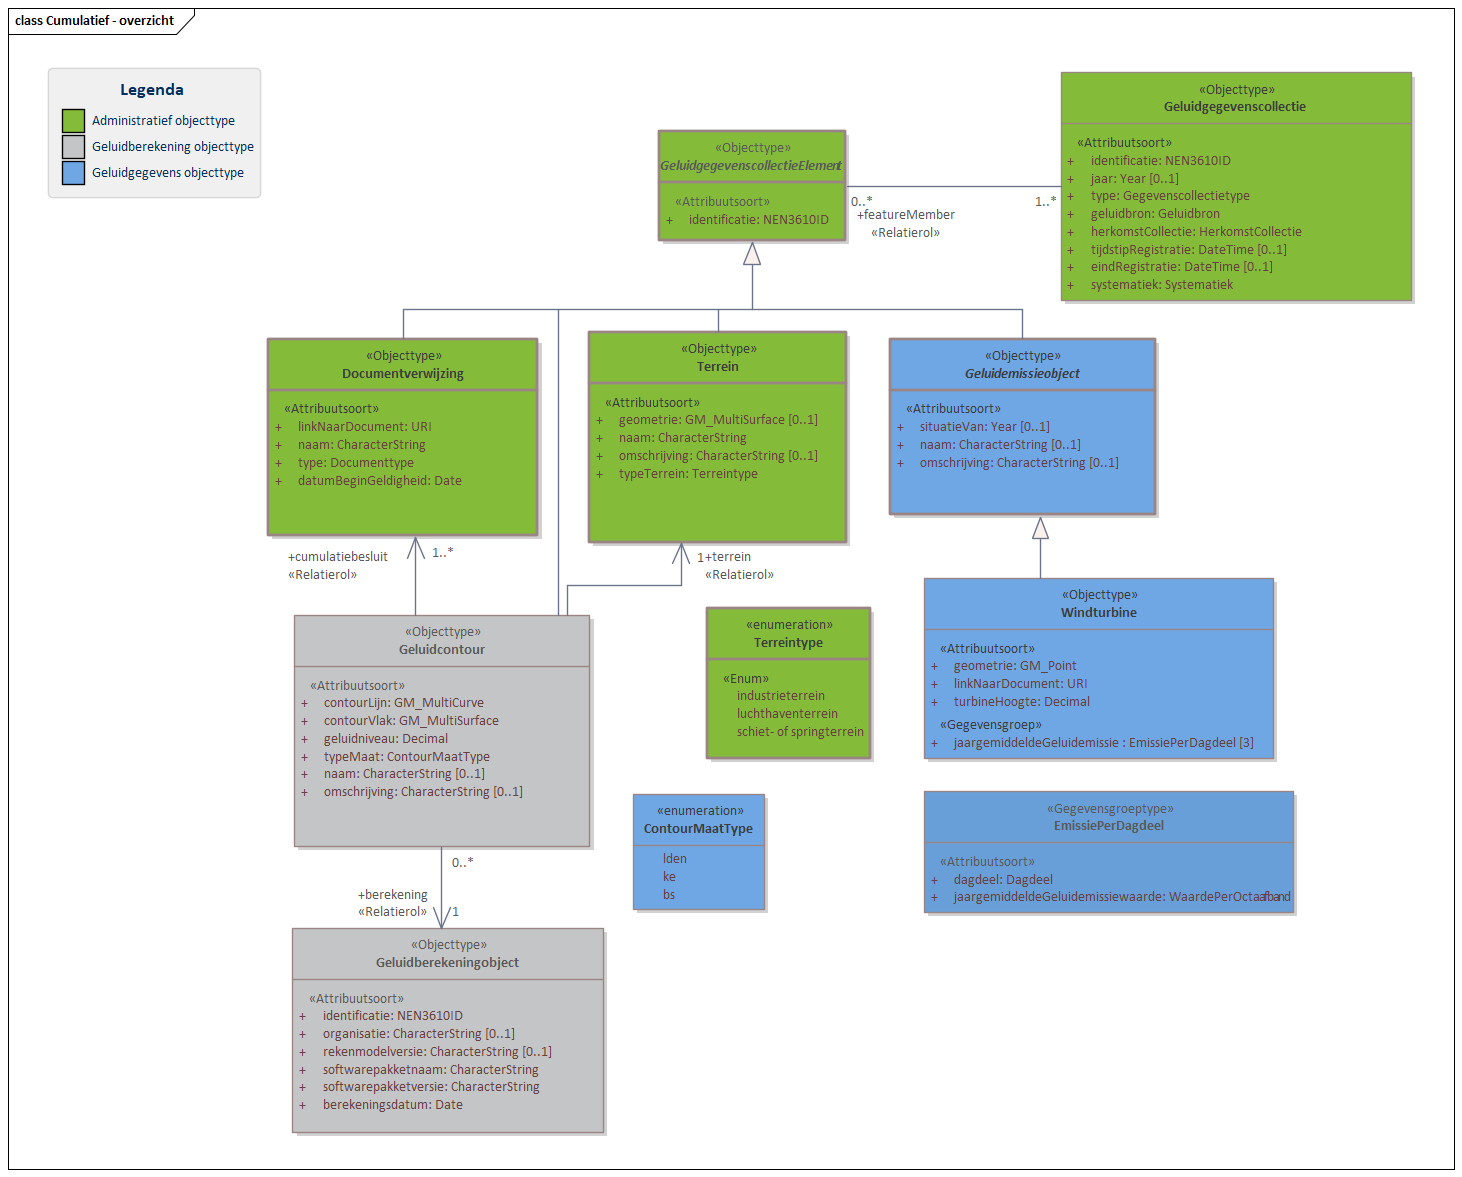
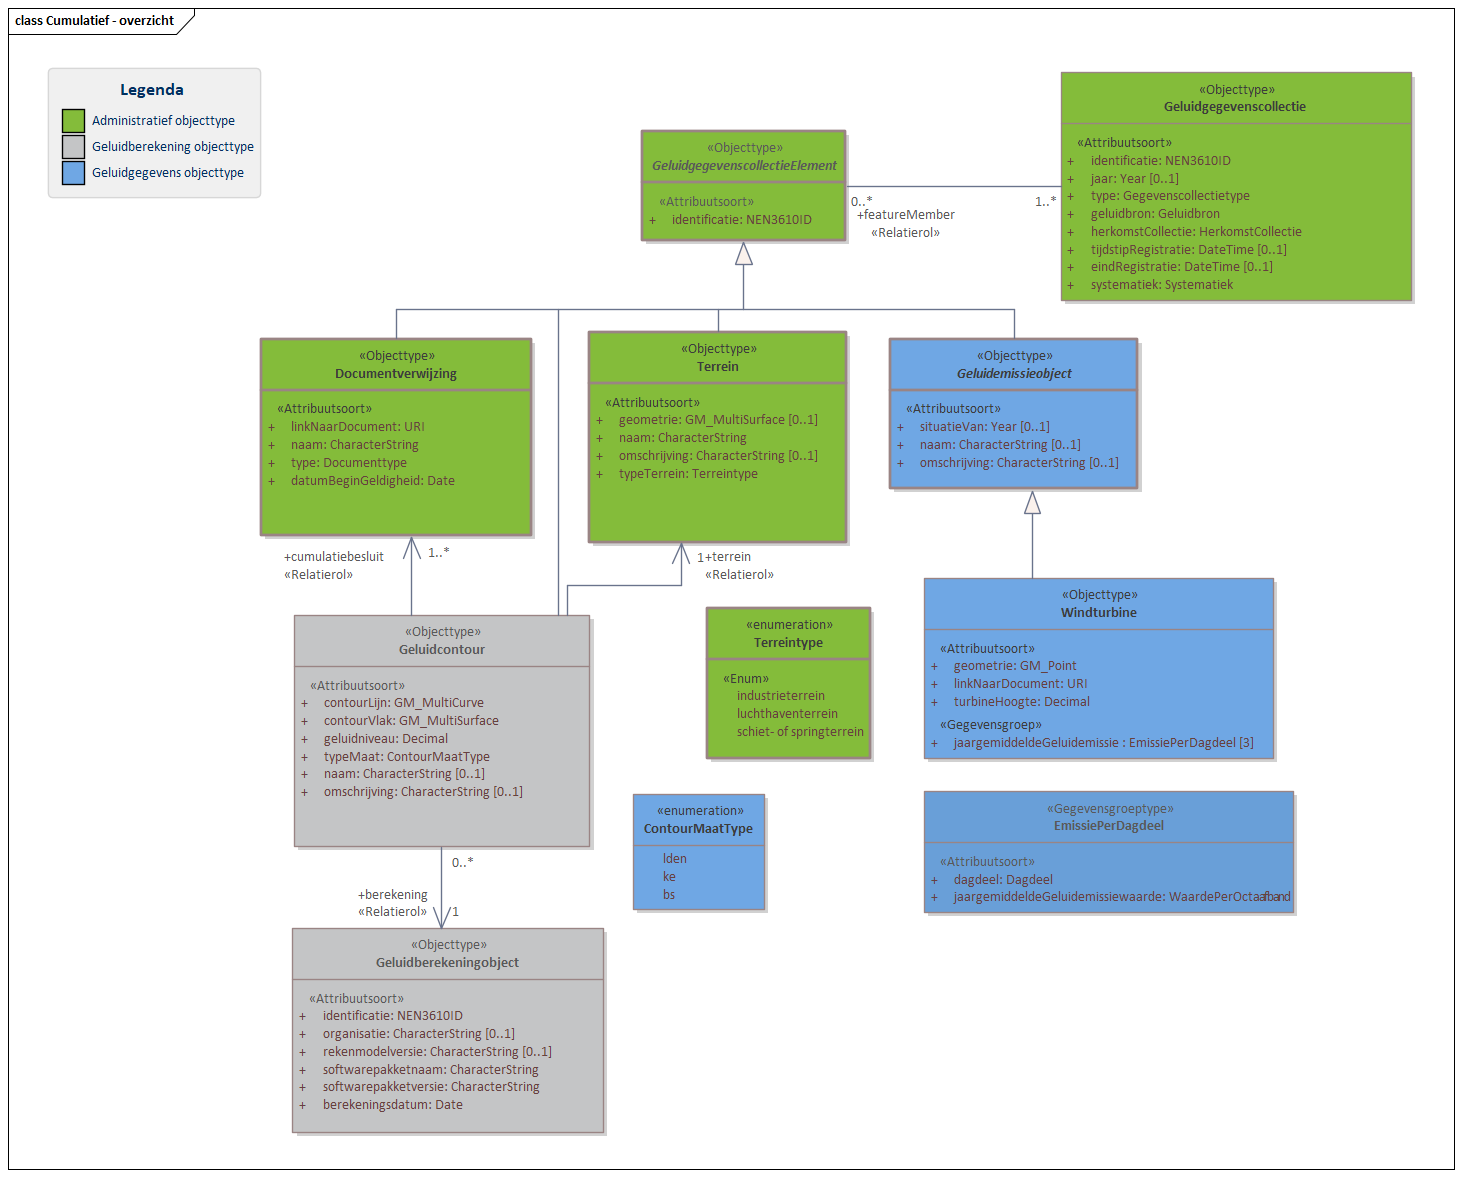
MIMLM-InformatiemodelGeluid-1.1-0-20210521-20211102-131441

diff --git a/data/IMG-cat.respec.html b/data/IMG-cat.respec.html
@@ -1,7 +1,7 @@
 
 <!DOCTYPE HTML><section id="cat" class="normative">
    <h2>Gegevensdefinitie</h2>
-   <!--MIMLM-InformatiemodelGeluid-1.1-0-20210521-20211102-114241 imvertor 1.65.2-->
+   <!--MIMLM-InformatiemodelGeluid-1.1-0-20210521-20211102-131441 imvertor 1.65.2-->
    <section id="EAID_66AE8FA2_74FC_4d4d_B2B2_249C8D6A651F">
       <h3>   Basismodel - overzicht</h3>
       <div class="imageinfo overview"><img src="data/Images/EAID_66AE8FA2_74FC_4d4d_B2B2_249C8D6A651F.png" usemap="#imagemap-EAID_66AE8FA2_74FC_4d4d_B2B2_249C8D6A651F" alt="Diagram &#xA;                        Het Basismodel vormt de samenhang tussen alle domeinen van het IMGeluid. Alle objecttypen en relaties uit het IMGeluid komen samen in een Geluidgegevenscollectie.&#xA;                        Binnen het IMGeluid worden geluidbrongegevens die gebruikt worden voor GPP en BGE berekeningen, gemodelleerd als een Geluidemissie of Geluidoverdrachtobject. De resultaten van GPP of BGE berekeningen worden opgeslagen in een Geluidgegevenscollectie. De onderliggende juridische vastleggingen, vaststellingen, of monitoringsverslagen van deze omgevings- of monitoringswaarden, worden ook opgeslagen in dezelfde Geluidgegevenscollectie.&#xA;                        Per geluidbron per toepassing kan er een Geluidgegevenscollectie bestaan. Deze kan geassocieerd worden met maximaal 1 Geluidaandachtsgebied. Wanneer geluidgegevens met betrekking tot cumulatieberekeningen worden aangeleverd, bevat een Geluidgegevenscollectie geen Geluidaandachtsgebied.&#xA;                        &#xA;                        # test&#xA;                        &#xA;                        Klik met de rechtermuisknop op het diagram om de afbeelding op volledige grote in een nieuw tabblad te openen.&#xA;                     "><map name="imagemap-EAID_66AE8FA2_74FC_4d4d_B2B2_249C8D6A651F"><area shape="rect" alt="GeluidgegevenscollectieElement" coords="411,164,648,268" href="#graph_EAID_924BD078_D715_461a_B7E9_D7176A7406E0"><area shape="rect" alt="Monitoringresultaat" coords="664,812,943,963" href="#graph_EAID_BA00B77B_D408_4590_8185_CE59E5838F1E"><area shape="rect" alt="Basisgeluidemissieobject" coords="217,772,522,909" href="#graph_EAID_9AD15457_4880_42e5_8C72_4E5EFAC91B15"><area shape="rect" alt="Geluidproductieplafondobject" coords="1160,508,1446,772" href="#graph_EAID_237408F8_8CE9_4828_B8FB_1A5B8C917622"><area shape="rect" alt="Geluidberekeningobject" coords="678,1071,992,1271" href="#graph_EAID_97ED59FE_9FCA_49a6_8F07_214E48000B76"><area shape="rect" alt="Documentverwijzing" coords="711,391,968,566" href="#graph_EAID_7E137496_1028_4af5_9367_569358A2167B"><area shape="rect" alt="Geluidaandachtsgebied" coords="1231,284,1477,424" href="#graph_EAID_B06128AC_518C_4e26_88E5_14ED5A050A19"><area shape="rect" alt="Geluidgegevenscollectie" coords="812,68,1155,297" href="#graph_EAID_313C5AF9_49B8_4860_9E65_DE7C70084864"><area shape="rect" alt="Geluidemissieobject" coords="171,365,437,525" href="#graph_EAID_361C96BA_A638_494e_80BA_590ED481A81B"><area shape="rect" alt="Geluidoverdrachtobject" coords="197,549,476,686" href="#graph_EAID_2FEA326B_B7E7_48a4_B50F_00CCB2694677"></map><p><b>Basismodel - overzicht</b>
@@ -32,7 +32,7 @@
    </section>
    <section id="EAID_8A238AA8_87EB_46bf_B38F_4D4C086EDF94">
       <h3>   GPP Algemeen - overzicht</h3>
-      <div class="imageinfo overview"><img src="data/Images/EAID_8A238AA8_87EB_46bf_B38F_4D4C086EDF94.png" usemap="#imagemap-EAID_8A238AA8_87EB_46bf_B38F_4D4C086EDF94" alt="Diagram &#xA;                        GPP Algemeen bevat objecttypen en relaties met in ieder geval betrekking tot geluidproductieplafonds, onderliggende geluidbrongegevens en juridische vaststellingen. GPP algemeen omvat drie subdomeinen: GPP Industie, GPP Wegen en GPP Spoor. Een aantal objecten zijn al eerder verschenen in het Basismodel, maar worden hier verder gespecificeerd. Zo worden binnen dit domein een aantal  Geluidoverdrachtobjecten gespecificeerd. Een voorbeeld hiervan is het Geluidschermdeel dat in alle GPP domeinen gebruikt wordt. &#xA;&#xA;Klik met de rechtermuisknop op het diagram om de afbeelding op volledige grote in een nieuw tabblad te openen&#xA;                     "><map name="imagemap-EAID_8A238AA8_87EB_46bf_B38F_4D4C086EDF94"><area shape="rect" alt="GeluidgegevenscollectieElement" coords="530,68,718,178" href="#graph_EAID_924BD078_D715_461a_B7E9_D7176A7406E0"><area shape="rect" alt="Geluidgegevenscollectie" coords="1246,89,1656,335" href="#graph_EAID_313C5AF9_49B8_4860_9E65_DE7C70084864"><area shape="rect" alt="Geluidemissieobject" coords="480,364,708,506" href="#graph_EAID_361C96BA_A638_494e_80BA_590ED481A81B"><area shape="rect" alt="Geluidoverdrachtobject" coords="153,361,447,510" href="#graph_EAID_2FEA326B_B7E7_48a4_B50F_00CCB2694677"><area shape="rect" alt="Bodemvlak" coords="372,683,578,819" href="#graph_EAID_902B9218_E1B1_4512_B52A_F8DADD1DB990"><area shape="rect" alt="Geluidschermdeel" coords="63,668,331,897" href="#graph_EAID_BC342A75_1053_4086_9B42_321F22E3FA82"><area shape="rect" alt="Hoogtelijn" coords="588,683,769,805" href="#graph_EAID_CE3003A0_5F16_4630_B2A6_519B33439135"><area shape="rect" alt="Geluidberekeningobject" coords="827,793,1143,1026" href="#graph_EAID_97ED59FE_9FCA_49a6_8F07_214E48000B76"><area shape="rect" alt="Documentverwijzing" coords="1117,429,1317,599" href="#graph_EAID_7E137496_1028_4af5_9367_569358A2167B"><area shape="rect" alt="Geluidaandachtsgebied" coords="1371,793,1639,943" href="#graph_EAID_B06128AC_518C_4e26_88E5_14ED5A050A19"><area shape="rect" alt="Geluidproductieplafondobject" coords="737,340,1022,627" href="#graph_EAID_237408F8_8CE9_4828_B8FB_1A5B8C917622"></map><p><b>GPP Algemeen - overzicht</b>
+      <div class="imageinfo overview"><img src="data/Images/EAID_8A238AA8_87EB_46bf_B38F_4D4C086EDF94.png" usemap="#imagemap-EAID_8A238AA8_87EB_46bf_B38F_4D4C086EDF94" alt="Diagram &#xA;                        GPP Algemeen bevat objecttypen en relaties met in ieder geval betrekking tot geluidproductieplafonds, onderliggende geluidbrongegevens en juridische vaststellingen. GPP algemeen omvat drie subdomeinen: GPP Industie, GPP Wegen en GPP Spoor. Een aantal objecten zijn al eerder verschenen in het Basismodel, maar worden hier verder gespecificeerd. Zo worden binnen dit domein een aantal  Geluidoverdrachtobjecten gespecificeerd. Een voorbeeld hiervan is het Geluidschermdeel dat in alle GPP domeinen gebruikt wordt. &#xA;&#xA;Klik met de rechtermuisknop op het diagram om de afbeelding op volledige grote in een nieuw tabblad te openen&#xA;                     "><map name="imagemap-EAID_8A238AA8_87EB_46bf_B38F_4D4C086EDF94"><area shape="rect" alt="GeluidgegevenscollectieElement" coords="530,68,718,178" href="#graph_EAID_924BD078_D715_461a_B7E9_D7176A7406E0"><area shape="rect" alt="Geluidgegevenscollectie" coords="1246,115,1604,343" href="#graph_EAID_313C5AF9_49B8_4860_9E65_DE7C70084864"><area shape="rect" alt="Geluidemissieobject" coords="480,364,708,506" href="#graph_EAID_361C96BA_A638_494e_80BA_590ED481A81B"><area shape="rect" alt="Geluidoverdrachtobject" coords="153,361,447,510" href="#graph_EAID_2FEA326B_B7E7_48a4_B50F_00CCB2694677"><area shape="rect" alt="Bodemvlak" coords="372,683,578,819" href="#graph_EAID_902B9218_E1B1_4512_B52A_F8DADD1DB990"><area shape="rect" alt="Geluidschermdeel" coords="63,668,331,897" href="#graph_EAID_BC342A75_1053_4086_9B42_321F22E3FA82"><area shape="rect" alt="Hoogtelijn" coords="588,683,769,805" href="#graph_EAID_CE3003A0_5F16_4630_B2A6_519B33439135"><area shape="rect" alt="Geluidberekeningobject" coords="827,793,1143,1026" href="#graph_EAID_97ED59FE_9FCA_49a6_8F07_214E48000B76"><area shape="rect" alt="Documentverwijzing" coords="1117,429,1317,599" href="#graph_EAID_7E137496_1028_4af5_9367_569358A2167B"><area shape="rect" alt="Geluidaandachtsgebied" coords="1371,793,1639,943" href="#graph_EAID_B06128AC_518C_4e26_88E5_14ED5A050A19"><area shape="rect" alt="Geluidproductieplafondobject" coords="737,340,1022,627" href="#graph_EAID_237408F8_8CE9_4828_B8FB_1A5B8C917622"></map><p><b>GPP Algemeen - overzicht</b>
             
             <p>GPP Algemeen bevat objecttypen en relaties met in ieder geval betrekking tot geluidproductieplafonds,
                onderliggende geluidbrongegevens en juridische vaststellingen. GPP algemeen omvat
@@ -143,7 +143,7 @@
    </section>
    <section id="EAID_0C92279C_28A6_4454_84DC_4ACAECE11937">
       <h3>   Cumulatief - overzicht</h3>
-      <div class="imageinfo overview"><img src="data/Images/EAID_0C92279C_28A6_4454_84DC_4ACAECE11937.png" usemap="#imagemap-EAID_0C92279C_28A6_4454_84DC_4ACAECE11937" alt="Diagram &#xA;                        In domeinmodel Cumulatief staan objecttypen en relaties ten behoeve van het uitvoeren van cumulatie van geluid. Voor luchthavens en schiet- of springterreinen betreft het geluidcontouren; voor windturbines betreft het geluidbrongegevens. &#xA;Een Geluidgegevenscollectie van cumulatieve gegevens bevat geen geluidaandachtsgebied. Informatie over de berekening van geluidcontouren wordt opgenomen in het geluidregister. &#xA;&#xA;Klik met de rechtermuisknop op het diagram om de afbeelding op volledige grote in een nieuw tabblad te openen.&#xA;                     "><map name="imagemap-EAID_0C92279C_28A6_4454_84DC_4ACAECE11937"><area shape="rect" alt="EmissiePerDagdeel" coords="924,791,1294,913" href="#graph_EAID_9A426255_E676_4de1_B729_5977DDDAFA5D"><area shape="rect" alt="GeluidgegevenscollectieElement" coords="659,131,846,241" href="#graph_EAID_924BD078_D715_461a_B7E9_D7176A7406E0"><area shape="rect" alt="Terreintype" coords="707,608,871,759" href="#graph_EAID_77370E17_8492_4c58_9D1A_B6E09697F834"><area shape="rect" alt="Terrein" coords="589,332,847,543" href="#graph_EAID_3CF82A2D_EBD2_45f5_BDBF_6B65612322CD"><area shape="rect" alt="Geluidemissieobject" coords="890,339,1156,515" href="#graph_EAID_361C96BA_A638_494e_80BA_590ED481A81B"><area shape="rect" alt="Documentverwijzing" coords="268,339,538,536" href="#graph_EAID_7E137496_1028_4af5_9367_569358A2167B"><area shape="rect" alt="Geluidgegevenscollectie" coords="1061,72,1412,301" href="#graph_EAID_313C5AF9_49B8_4860_9E65_DE7C70084864"><area shape="rect" alt="Windturbine" coords="924,578,1274,759" href="#graph_EAID_DBD69202_F9F6_4121_99E0_A194D53BB62F"><area shape="rect" alt="ContourMaatType" coords="633,794,765,910" href="#graph_EAID_F0EBEC48_6162_4681_86C7_ECC93055F37A"><area shape="rect" alt="Geluidcontour" coords="294,615,590,847" href="#graph_EAID_593AE084_D3EF_403b_9863_496FC269DC87"><area shape="rect" alt="Geluidberekeningobject" coords="292,928,604,1133" href="#graph_EAID_97ED59FE_9FCA_49a6_8F07_214E48000B76"></map><p><b>Cumulatief - overzicht</b>
+      <div class="imageinfo overview"><img src="data/Images/EAID_0C92279C_28A6_4454_84DC_4ACAECE11937.png" usemap="#imagemap-EAID_0C92279C_28A6_4454_84DC_4ACAECE11937" alt="Diagram &#xA;                        In domeinmodel Cumulatief staan objecttypen en relaties ten behoeve van het uitvoeren van cumulatie van geluid. Voor luchthavens en schiet- of springterreinen betreft het geluidcontouren; voor windturbines betreft het geluidbrongegevens. &#xA;Een Geluidgegevenscollectie van cumulatieve gegevens bevat geen geluidaandachtsgebied. Informatie over de berekening van geluidcontouren wordt opgenomen in het geluidregister. &#xA;&#xA;Klik met de rechtermuisknop op het diagram om de afbeelding op volledige grote in een nieuw tabblad te openen.&#xA;                     "><map name="imagemap-EAID_0C92279C_28A6_4454_84DC_4ACAECE11937"><area shape="rect" alt="EmissiePerDagdeel" coords="924,791,1294,913" href="#graph_EAID_9A426255_E676_4de1_B729_5977DDDAFA5D"><area shape="rect" alt="GeluidgegevenscollectieElement" coords="642,131,846,241" href="#graph_EAID_924BD078_D715_461a_B7E9_D7176A7406E0"><area shape="rect" alt="Terreintype" coords="707,608,871,759" href="#graph_EAID_77370E17_8492_4c58_9D1A_B6E09697F834"><area shape="rect" alt="Terrein" coords="589,332,847,543" href="#graph_EAID_3CF82A2D_EBD2_45f5_BDBF_6B65612322CD"><area shape="rect" alt="Geluidemissieobject" coords="890,339,1138,489" href="#graph_EAID_361C96BA_A638_494e_80BA_590ED481A81B"><area shape="rect" alt="Documentverwijzing" coords="261,339,532,536" href="#graph_EAID_7E137496_1028_4af5_9367_569358A2167B"><area shape="rect" alt="Geluidgegevenscollectie" coords="1061,72,1412,301" href="#graph_EAID_313C5AF9_49B8_4860_9E65_DE7C70084864"><area shape="rect" alt="Windturbine" coords="924,578,1274,759" href="#graph_EAID_DBD69202_F9F6_4121_99E0_A194D53BB62F"><area shape="rect" alt="ContourMaatType" coords="633,794,765,910" href="#graph_EAID_F0EBEC48_6162_4681_86C7_ECC93055F37A"><area shape="rect" alt="Geluidcontour" coords="294,615,590,847" href="#graph_EAID_593AE084_D3EF_403b_9863_496FC269DC87"><area shape="rect" alt="Geluidberekeningobject" coords="292,928,604,1133" href="#graph_EAID_97ED59FE_9FCA_49a6_8F07_214E48000B76"></map><p><b>Cumulatief - overzicht</b>
             
             <p>In domeinmodel Cumulatief staan objecttypen en relaties ten behoeve van het uitvoeren
                van cumulatie van geluid. Voor luchthavens en schiet- of springterreinen betreft het
@@ -5012,7 +5012,7 @@
                      
                      [ 1 ]
                      
-                     <a class="link" href="#detail_association_IMGeluidAlgemeen_Brug_geluidafschermSpoor">geluidafschermSpoor: geluidafschermSpoor</a>
+                     <a class="link" href="#detail_association_IMGeluidAlgemeen_Brug_geluidschermSpoor">geluidschermSpoor: geluidschermSpoor</a>
                      
                      GeluidschermSpoor
                      [ 0 .. * ]
@@ -6176,7 +6176,7 @@
                      Brug
                      [ 1 ]
                      
-                     <a class="link" href="#detail_association_IMGeluidAlgemeen_Brug_geluidafschermSpoor">geluidafschermSpoor: geluidafschermSpoor</a>
+                     <a class="link" href="#detail_association_IMGeluidAlgemeen_Brug_geluidschermSpoor">geluidschermSpoor: geluidschermSpoor</a>
                      
                      
                      <a class="link" href="#global_class_IMGeluidAlgemeen_GeluidschermSpoor">GeluidschermSpoor</a>
@@ -18767,7 +18767,11 @@
                      </tr>
                      <tr>
                         <th>Toelichting</th>
-                        <td>Een inhoudelijke toelichting op de toepassing van het informatie-element.</td>
+                        <td>
+                           
+                           <p>Standaard staat deze op "True". Als het op "False" staat is het object om andere redenen
+                              geplaatst maar wel geluidwerend.</p>
+                           </td>
                      </tr>
                      <tr>
                         <th>Mogelijk geen waarde</th>
@@ -20780,8 +20784,8 @@
                   </table>
                   </div>
                </section>
-            <a class="anchor" id="detail_association_IMGeluidAlgemeen_Brug_geluidafschermSpoor"></a><section id="detail_association_IMGeluidAlgemeen_Brug_geluidafschermSpoor">
-               <h6>Relatiesoort details  <a href="#global_class_IMGeluidAlgemeen_Brug">Brug</a> geluidafschermSpoor</h6>
+            <a class="anchor" id="detail_association_IMGeluidAlgemeen_Brug_geluidschermSpoor"></a><section id="detail_association_IMGeluidAlgemeen_Brug_geluidschermSpoor">
+               <h6>Relatiesoort details  <a href="#global_class_IMGeluidAlgemeen_Brug">Brug</a> geluidschermSpoor</h6>
                
                
                <table style="width: 100%;">
@@ -20790,7 +20794,7 @@
                   <tbody>
                      <tr>
                         <th>Naam</th>
-                        <td>geluidafschermSpoor</td>
+                        <td>geluidschermSpoor</td>
                      </tr>
                      <tr>
                         <th>Definitie</th>
@@ -25045,7 +25049,7 @@
 </section>
 <section id="lis" class="normative">
    <h2>Inhoud van waardenlijsten</h2>
-   <!--MIMLM-InformatiemodelGeluid-1.1-0-20210521-20211102-114241 imvertor 1.65.2--><a class="anchor" id="graph_EAID_C9ACE184_6E2B_40c1_ACE0_A7C5EE554EF9"></a><a class="anchor" id="detail_class_IMGeluidAlgemeen_Schermtype"></a><section id="detail_class_IMGeluidAlgemeen_Schermtype">
+   <!--MIMLM-InformatiemodelGeluid-1.1-0-20210521-20211102-131441 imvertor 1.65.2--><a class="anchor" id="graph_EAID_C9ACE184_6E2B_40c1_ACE0_A7C5EE554EF9"></a><a class="anchor" id="detail_class_IMGeluidAlgemeen_Schermtype"></a><section id="detail_class_IMGeluidAlgemeen_Schermtype">
       <h3>Enumeratie details  Schermtype</h3>
       
       <table style="width: 100%;" class="list">
